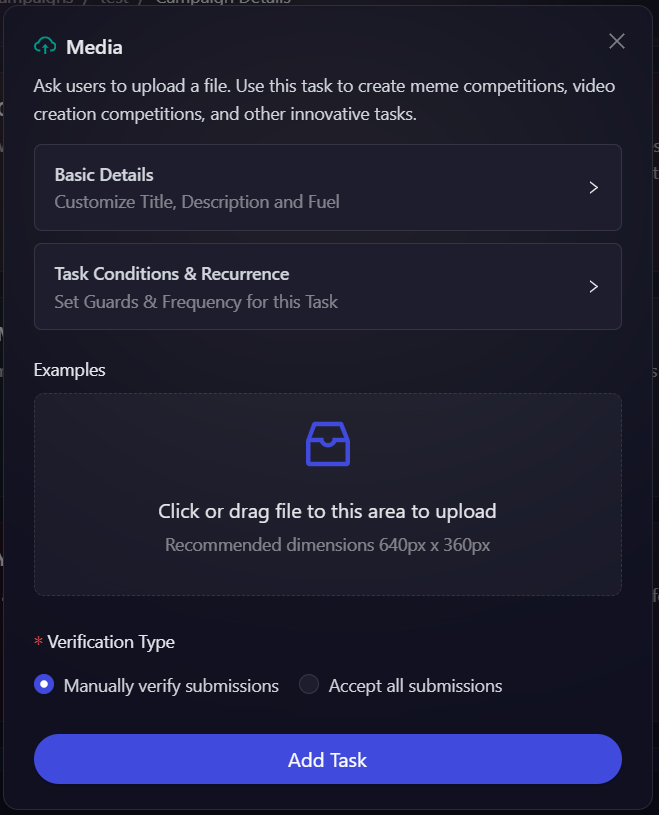
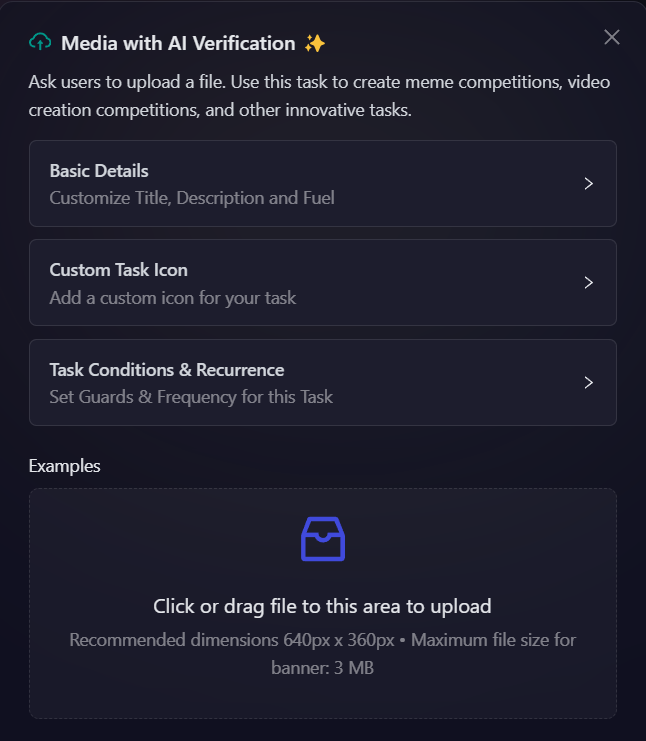
upload with ai verification docs update

diff --git a/docs/campaign/quests/upload.md b/docs/campaign/quests/upload.md
@@ -1,21 +1,24 @@
-# UGC (Upload)
+# Media with AI Verification ✨
 
-Projects love engaging with the community and on a regular basis perform engagement activities such as creating a meme, infographics, writing contents, creating funny videos, creating telegram stickers, and many more. Keeping that in mind, AirLyft has introduced a Media functionality in which projects can ask users to create certain contents in form of an image, or video, or simple document and upload their content as an submission for which participants will be rewarded entries. Let's take a look on how we can create Media actions.
+Projects love engaging with the community and on a regular basis perform engagement activities such as creating a meme, infographics, writing contents, creating funny videos, creating telegram stickers, and many more. Using this task, you can create meme competitions, video creation competitions, and other innovative tasks. AirLyft has introduced a Media functionality in which projects can ask users to create certain contents in form of an image, or video, or simple document and upload their content as an submission for which participants will be rewarded entries. Let's take a look on how we can create Media actions.
 
-- Login to AirLyft and create an event. On the event page, click on Quests tab where you can find the Media block.
+- Login to AirLyft and create an event. On the event page, click on Quests tab where you can find the **Media with AI verification** block.
 
-  ![Media Main](../../images/MediaMain.png)
+  ![Media Main](../../images/aimediaQuestboard.png)
 
 - Next, expand the basic details option to enter the Title, Description, and Entries. It is advisable to elaborate on the title and description so that participants have a much greater understanding of the task. You can also provide a screenshot example that gives a better perspective of what type of contents users need to upload. **Do take a note of the dimensions which is 640px X 360px!**
 
 - To configure the **Task Condition & Recurrence**, refer to the [Task Condition & Recurrence](../task-condition-and-recurrence.md) page.
 
-- You can also select the type of verification you want for the task. There are two options:
+  ![Media Basics](../../images/MediaBasics.png)
+
+- You can also select the type of verification you want for the task. There are three options:
 
   - **Manually verify submissions:** Manually select which submission to mark as valid.
   - **Accept all submissions:** All submissions are automatically marked as valid.
+  - **AI-powered verification:** Use AI to automatically verify if the uploaded content matches your requirements. You'll need to provide clear instructions for the AI to verify against (e.g., "The image should be a meme that talks about AirLyft").
 
-  ![Media Basics](../../images/MediaBasics.png)
+  ![Media Options](../../images/mediaOptions.png)
 
 - Finally click on **Add Task** and that's it. Your media task creation is complete and ready for campaign.
 
